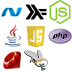
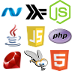
Add new html docset images

Changed region(s): [[0.6944, 0.6944, 0.9722, 1.0]]

diff --git a/public/css/styles.css b/public/css/styles.css
@@ -383,6 +383,9 @@ ul.breadcrumbsul li:last-child a:hover {
 .docsets-node:before {
     background-position: -48px 0px;
 }
+.docsets-HTML:before {
+    background-position: -48px -48px;
+}
 .type-icon:before {
     background-image: url('../img/types.png');
     height: 16px;
